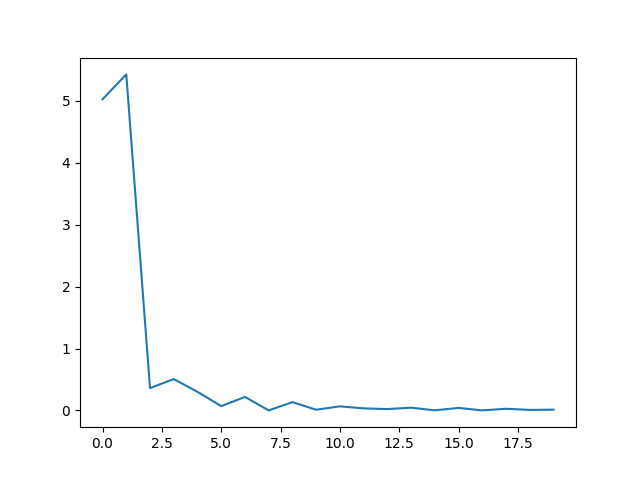
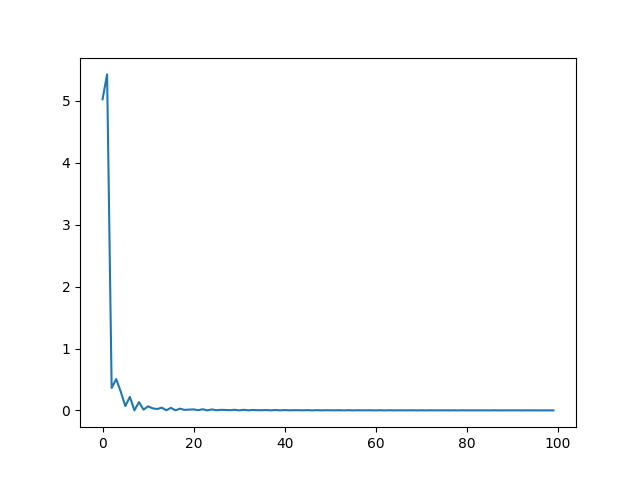
refactored legendre to be |w|**2

diff --git a/test.py b/test.py
@@ -40,7 +40,7 @@ r = list(range(100,2000))
 #         F0[i][j] = np.longdouble(integrated(q[i], r[j], r[j]+1, 0))
 # print(time.time()-start)
 
-f = open('databig.txt', 'r')
+f = open('data100.txt', 'r')
 start = time.time()
 F = f.read()
 f.close()
@@ -49,7 +49,7 @@ F = F.split(' ')
 F = F[0:len(F)-1]
 for i in range(len(F)):
     F[i] = float(F[i])
-F = np.array(F).reshape(20,500,1900)
+F = np.array(F).reshape(100,500,1900)
 
 F0 = F[0]
 

diff --git a/legendre.py b/legendre.py
@@ -41,10 +41,12 @@ def alpha(n, ad):
 a = []
 b = []
 f = open("w.txt", "w")
-for i in range(0,20):
+for i in range(0,100):
+    f.write(str(e26(i, alpha(1, 0.4))**2)+'\n')
     a.append(y(i, alpha(1, 0.4), 0.4))
-    f.write(str(y(i, alpha(1, 0.4), 0.4))+'\n')
+    # f.write(str(y(i, alpha(1, 0.4), 0.4))+'\n')
     b.append(i)
+f.close()
 plt.plot(b, a)
 print(a)
 plt.savefig('lg.png')

diff --git a/findz.py b/findz.py
@@ -7,7 +7,8 @@ import time
 November 30 Parameters For Reference:
 R: 100-2000 (1900 elements)
 q: 0.001-0.500 (500 elements)
-l: 0-240 (250 elements)
+l: 0-100 (100 elements)
+# l: 0-250 (250 elements)
 
 """
 
@@ -61,7 +62,7 @@ ll = llower
 percentage=0
 elems = 0
 
-f = open('databig.txt', 'w')
+f = open('data100.txt', 'w')
 start = time.time()
 for i in range(numl):
   qlower = ql
